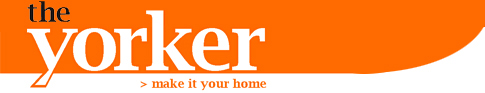
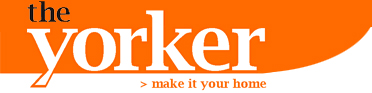
New Homepage Design Ideas - Made the header image smaller so that the links in the header don't wrap - Moved the style changes for the new header into a separate stylesheet so that it doesn't affect the office and vip frames

diff --git a/public_html/stylesheets/new.css b/public_html/stylesheets/new.css
@@ -115,11 +115,10 @@ blockquote {
 /* Make sure page in in center for IE6 */
 body {
 	text-align: center;
-	margin: 0;
 }
 
 /* Create Header, Body and Footer sections */
-div#Page, div#Footer {
+div#Header, div#Page, div#Footer {
 	/* Remove next line for variable width */
 	width: 984px;
 
@@ -128,13 +127,6 @@ div#Page, div#Footer {
 	clear: both;
 	text-align: left;
 	padding: 0;
-}
-
-div#Header {
-	background: url('/images/prototype/new_home/header_bg2.jpg');
-	background-repeat: repeat-x;
-	color: #fff;
-	text-align: left;
 }
 
 /* Create Navigation and Main areas in Body */
@@ -149,12 +141,7 @@ div#MainBodyPane {
 
 /* Formatting for links right at the top of the page */
 div#HeaderMenu {
-	text-align: left;
-	font-size: 0.9em;
-}
-
-div#HeaderMenu a {
-	color: #fff;
+	text-align: right;
 }
 
 /* * * * * * * * * * * * * * * * * * * * * * * * * * * * * * * *
@@ -162,14 +149,13 @@ div#HeaderMenu a {
  * * * * * * * * * * * * * * * * * * * * * * * * * * * * * * * */
 
 div#TopBanner {
-	width: 50%;
 	float: left;
-	text-align: right;
-	background: url('/images/prototype/new_home/header_bg.jpg');
+	background-image: url('/images/prototype/header/homepage_bk.gif');
 	background-repeat: repeat-x;
 }
 
 h1#TopBannerName {
+	float: left;
 	margin: 0;
 
 	/* Required only when other stylesheets are included */

diff --git a/public_html/stylesheets/home_new.css b/public_html/stylesheets/home_new.css
@@ -1,0 +1,27 @@
+body {
+	margin: 0;
+}
+
+div#Header {
+	background: url('/images/prototype/new_home/header_bg2.jpg');
+	background-repeat: repeat-x;
+	color: #fff;
+	text-align: left;
+}
+
+div#HeaderMenu {
+	text-align: left;
+	font-size: 0.9em;
+}
+
+div#HeaderMenu a {
+	color: #fff;
+}
+
+h1#TopBannerName {
+	float: none;
+}
+
+div#TopBanner {
+	background-image: url('/images/prototype/new_home/header_bg.jpg');
+}

diff --git a/system/application/views/general/home.php b/system/application/views/general/home.php
@@ -98,11 +98,10 @@ if ($weather_forecast != null) {
 				<img src="/images/prototype/new_home/news1.jpg" alt="" />
 			</a>
 		</div>
-		<div style="width:146px;height:150px;float:left;">
+		<div style="width:146px;float:left;">
 			<!--<h3 style="padding:0;margin:0;" class="Headline"><a href="/news/uninews/1063">News in Brief: Ftr price-rise</a></h3>-->
 			<div style="padding:0;margin:0;" class="Date">Saturday, 12th January 2008</div>
 			<p style="padding-top:0;margin-top:0;" class="More">First York have raised prices on the number 4 route from the University to York city centre to &pound;1.80 for a single and &pound;2.90 for a return journey.</p>
-			<div style="clear:both;"></div>
 		</div>
 		<div style="clear:both;"></div>
 	</div>
@@ -119,11 +118,10 @@ if ($weather_forecast != null) {
 				<img src="/images/prototype/new_home/news2.jpg" alt="" />
 			</a>
 		</div>
-		<div style="width:146px;height:150px;float:left;">
+		<div style="width:146px;float:left;">
 			<!--<h3 style="padding:0;margin:0;" class="Headline"><a href="/news/uninews/1049">Volunteering with the homeless</a></h3>-->
 			<div style="padding:0;margin:0;" class="Date">Wednesday, 9th January 2008</div>
 			<p style="padding-top:0;margin-top:0;" class="More">This Christmas I decided to do something positive for the homeless and for myself - by trading in the traditional festivities to volunteer for Crisis, a charity for homeless people.</p>
-			<div style="clear:both;"></div>
 		</div>
 		<div style="clear:both;"></div>
 	</div>

diff --git a/system/application/views/frames/public_frame.php b/system/application/views/frames/public_frame.php
@@ -36,7 +36,8 @@ if (isset($medium_type)) { ?>
 
 	<link href="/stylesheets/new.css" rel="stylesheet" type="text/css" />
 	<!--[if lte IE 6]><link href="/stylesheets/new-ie6fix.css" rel="stylesheet" type="text/css" /><![endif]-->
-
+	<link href="/stylesheets/home_new.css" rel="stylesheet" type="text/css" />
+	
 	<?php
 	if (isset($extra_css)) {
 		echo('<link href="'.$extra_css.'" rel="stylesheet" type="text/css" />'."\n");
@@ -54,7 +55,7 @@ if (isset($medium_type)) { ?>
 	<div id="Header">
 		<div id="TopBanner">
 			<h1 id="TopBannerName">
-				<a href="/"><img src="/images/prototype/new_home/header.jpg" width="485" height="93" alt="The Yorker" /></a>
+				<a href="/"><img src="/images/prototype/new_home/header.jpg" alt="The Yorker" /></a>
 			</h1>
 		</div>
 		<div id="HeaderMenu">
